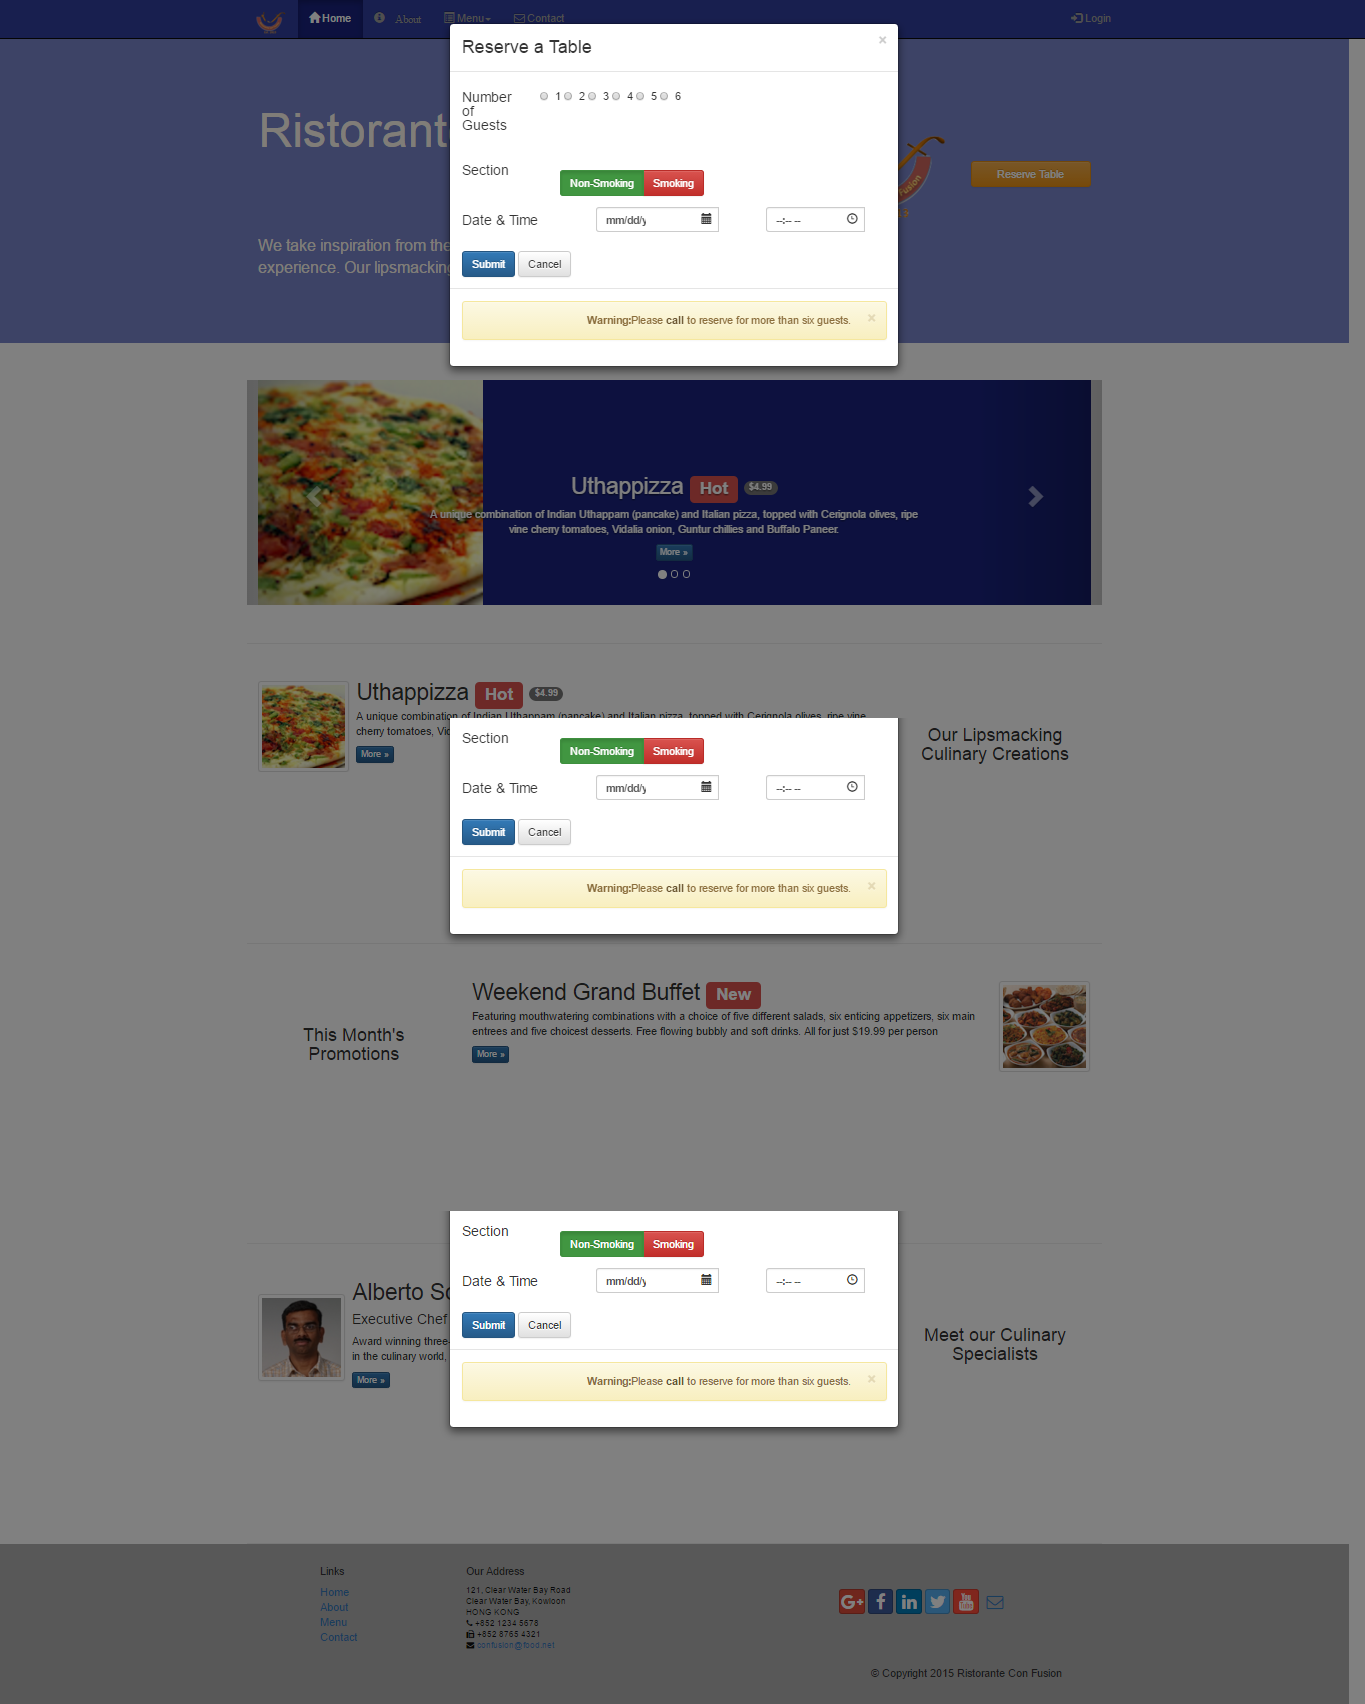
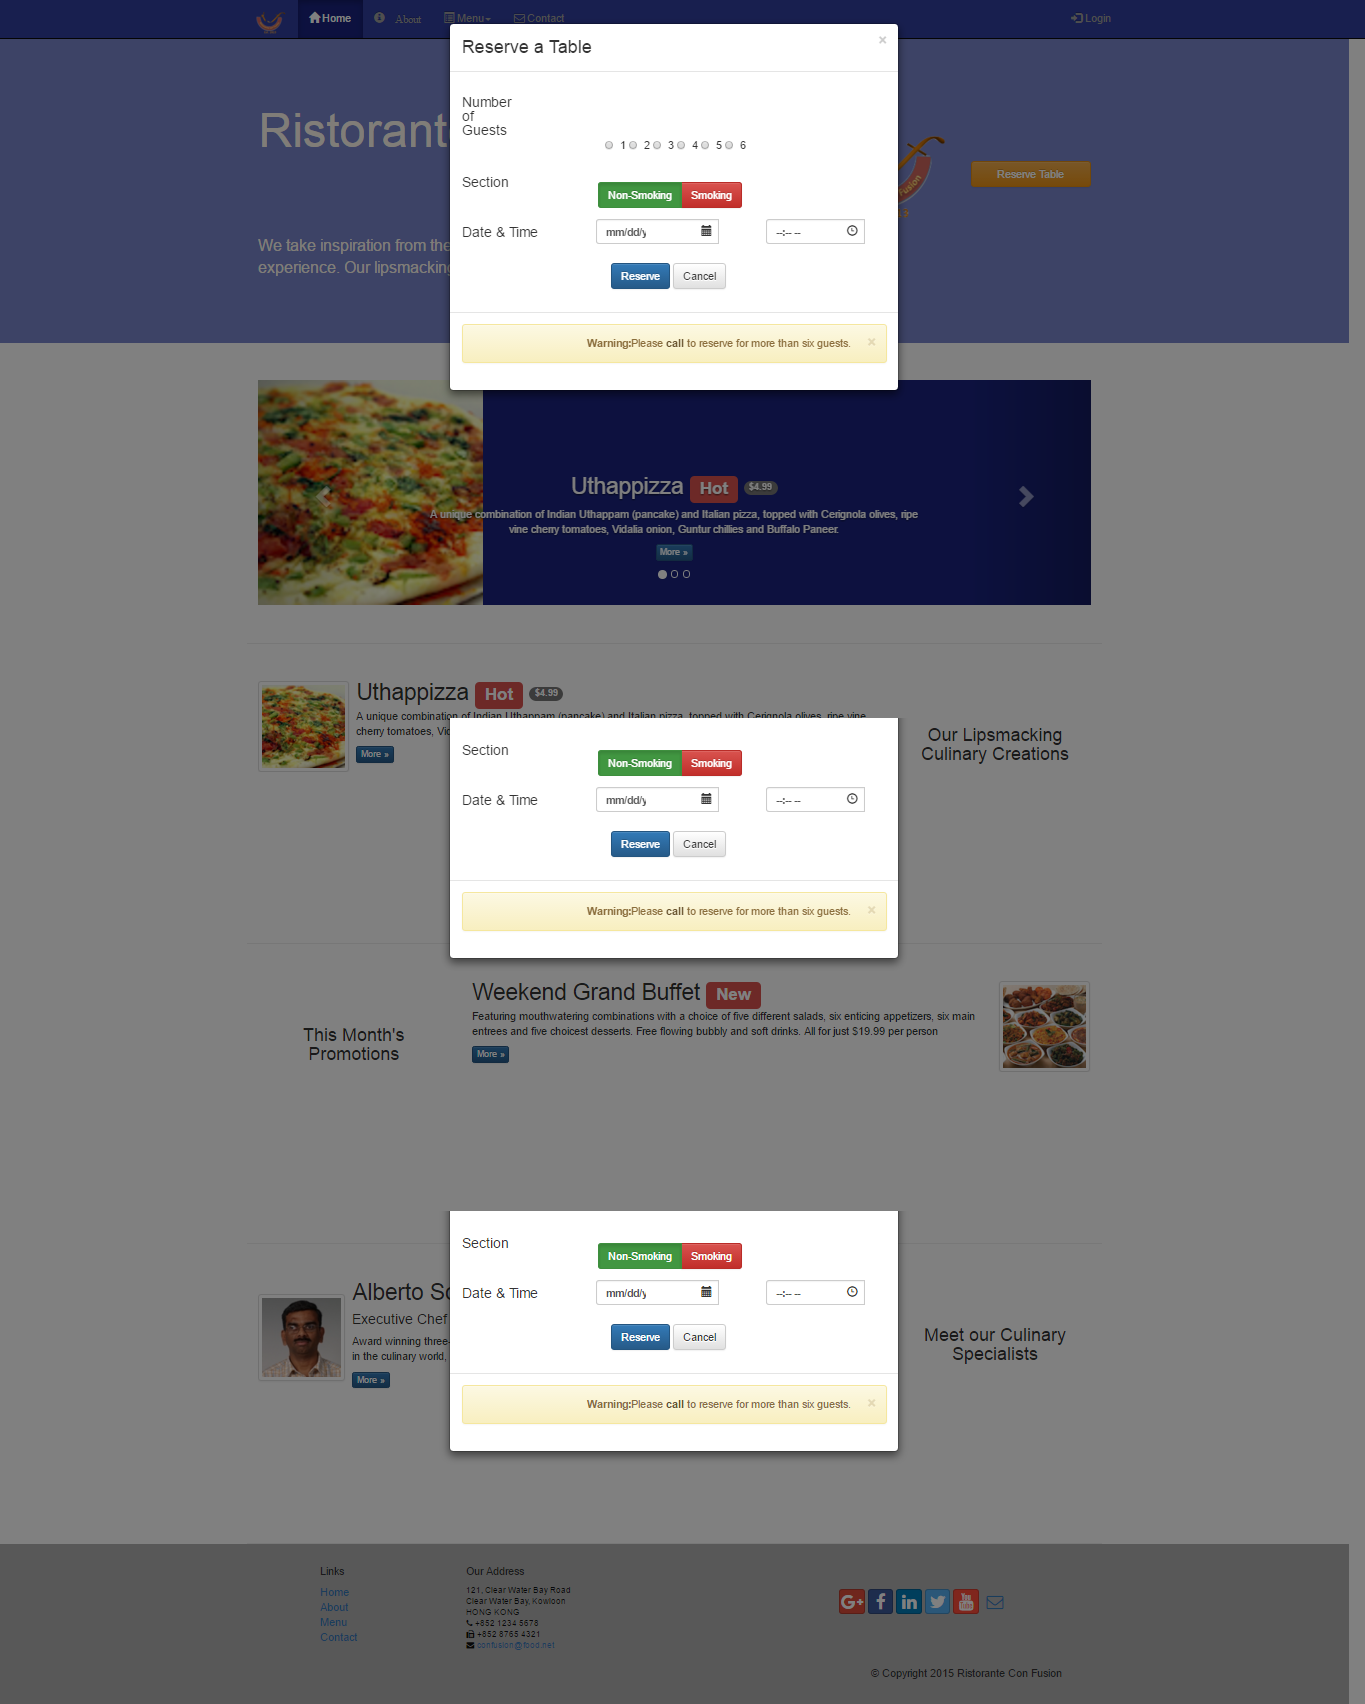
last modifications for 3rd assignment

diff --git a/index.html b/index.html
@@ -98,6 +98,95 @@
         </div>
     </div>  <!-- end of login Modal -->
 
+    <!-- @boo: reserve modal . 3rd assignment -->
+    <div class="modal fade" id="reserveModal" role="dialog">
+            <div class="modal-dialog">
+            <!-- Modal content -->
+                <div class="modal-content">
+                    <div class="modal-header">
+                        <button type="button" class="close" data-dismiss="modal">&times;</button>
+                        <h3 class="modal-title">Reserve a Table</h3> 
+                    </div>
+                    <div class="modal-body">
+                        <form class="form-horizontal" role="form">
+                            <div class="form-group">
+                                <label class="control-label"><h4 class="col-sm-2">Number of Guests</h4></label>
+                                <div class="radio radio-inline">
+                                    <label for="optionsRadios1">
+                                        <input type="radio" name="optionsRadios" id="optionsRadios1" value="option1" checked>1
+                                    </label>
+                                    <label for="optionsRadios2">
+                                        <input type="radio" name="optionsRadios" id="optionsRadios2" value="option2">2
+                                    </label>
+                                    <label for="optionsRadios3">
+                                        <input type="radio" name="optionsRadios" id="optionsRadios3" value="option3">3
+                                    </label>
+                                    <label for="optionsRadios4">
+                                        <input type="radio" name="optionsRadios" id="optionsRadios4" value="option4">4
+                                    </label>
+                                    <label for="optionsRadios5">
+                                        <input type="radio" name="optionsRadios" id="optionsRadios5" value="option5">5
+                                    </label>
+                                    <label for="optionsRadios6">
+                                        <input type="radio" name="optionsRadios" id="optionsRadios6" value="option6">6
+                                    </label>
+                                </div>
+                            </div>
+
+                            <!-- @boo: assignments 3 task 4 -->
+                            <div class="form-group">
+                                <label for="section" class="control-label"><h4 class="col-sm-2">Section</h4></label>
+                                <div class="btn-group col-sm-offset-2" data-toggle="buttons">
+                                    <label class="btn btn-success active">
+                                        <input type="radio" name="optionsRadios" id="optionsNonSmoking" value="optionsNonSmoking" autocomplete="off" checked> Non-Smoking
+                                    </label>
+                                    <label class="btn btn-danger">
+                                        <input type="radio" name="optionsRadios" id="optionsSmoking" value="optionsSmoking" autocomplete="off">Smoking
+                                    </label>
+                                </div>
+                            </div>
+
+                            <div class="form-group has-feedback input-group">
+                                <h4 class="col-sm-3">Date &amp; Time</h4>
+                                <div class="col-sm-9">
+                                    <div class="col-sm-12">
+                                        <div class="col-sm-6 datepicker date has-feedback">
+                                            <label for="date">
+                                                <input class="form-control date-picker date" type="date" name="date" id="date" min="2016-04-18" placeholder="Date">
+                                                <span class="glyphicon glyphicon-calendar form-control-feedback"></span>
+                                            </label>
+                                        </div> 
+                                        <div class="col-sm-offset-1 col-sm-5 time has-feedback">
+                                            <label for="time">
+                                                <input class="form-control time" type="time" name="time" id="time" placeholder="Time">
+                                                <span class="glyphicon glyphicon-time form-control-feedback"></span>
+                                            </label>
+                                        </div>
+                                    </div>
+                                </div>
+                            </div>
+                            <div class="form-group">
+                                <div class="col-sm-offset-4 col-sm-8">
+                                    <button type="button" class="btn btn-primary">Reserve</button>
+                                    <button type="button" class="btn btn-default" aria-label="close" data-dismiss="modal">Cancel</button>    
+                                </div>
+                            </div>
+                        </form>
+                    </div><!-- end of modal body -->
+                    <!--Alert -->
+                    <!-- @boo 3Assignment task 2: Remove alert. -->
+                    <div class="modal-footer">
+                        <div class="alert alert-warning alert-dismissible" role="alert">
+                            <button type="button" class="close" data-dismiss="alert" aria-label="Close">
+                                <span aria-hidden="true">&times;</span>
+                            </button>
+                            <strong>Warning:</strong>Please <a href="tel:+85212345678" class="alert-link">call</a> to reserve for more than six guests.                    
+                        </div>
+                    </div> <!-- end of modal footer -->
+                </div> <!-- end of modal dialog -->
+            </div> <!-- end of modal content-->
+        </div> <!-- end of modal form + alert --> 
+
     <header class="jumbotron">
 
         <!-- Main component for a primary marketing message or call to action -->
@@ -121,7 +210,7 @@
                 </div>
             </div>
             <!-- @boo 3Assignment task 2: Remove form. remove row content. turn it into a modal. -->
-        
+            
         </div>
     </header>
 
@@ -130,14 +219,13 @@
         <div class="row row-content">
             <div class="col-xs-12">
             <!-- Indicators -->
-            <div id="mycarousel" class="carousel slide" data-ride="carousel">
-            <ol class="carousel-indicators">
-                <li data-target="#mycarousel" data-slide-to="0" class="active"></li>
-                <li data-target="#mycarousel" data-slide-to="1"></li>
-                <li data-target="#mycarousel" data-slide-to="2"></li>
-            </ol>
-                
-                    <!--wrapper for slides-->
+                <div id="mycarousel" class="carousel slide" data-ride="carousel">
+                    <ol class="carousel-indicators">
+                        <li data-target="#mycarousel" data-slide-to="0" class="active"></li>
+                        <li data-target="#mycarousel" data-slide-to="1"></li>
+                        <li data-target="#mycarousel" data-slide-to="2"></li>
+                    </ol>
+                <!--wrapper for slides-->
                     <div class="carousel-inner" role="listbox">
                         <div class="item active">
                             <img class="img-responsive" src="img/uthappizza.png" alt="Uthappizza">
@@ -166,18 +254,18 @@
                             </div>
                         </div>
                     </div>
+                
+                    <!-- Controls of the carousel -->
+                    <a class="left carousel-control" href="#mycarousel" role="button" data-slide="prev">
+                        <span class="glyphicon glyphicon-chevron-left" aria-hidden="true"></span>
+                        <span class="sr-only">Previous</span>
+                    </a>
+                    <a class="right carousel-control" href="#mycarousel" role="button" data-slide="next">
+                        <span class="glyphicon glyphicon-chevron-right" aria-hidden="true"></span>
+                        <span class="sr-only">Next</span>
+                    </a>
                 </div>
-                <!-- Controls of the carousel -->
-                <a class="left carousel-control" href="#mycarousel" role="button" data-slide="prev">
-                    <span class="glyphicon glyphicon-chevron-left" aria-hidden="true"></span>
-                    <span class="sr-only">Previous</span>
-                </a>
-                <a class="right carousel-control" href="#mycarousel" role="button" data-slide="next">
-                    <span class="glyphicon glyphicon-chevron-right" aria-hidden="true"></span>
-                    <span class="sr-only">Next</span>
-                </a>
             </div>
-            
         </div> <!-- end of carousel -->
 
         <div class="row row-content">
@@ -295,108 +383,18 @@
         </div>
     </footer>
 
-    <div class="modal fade" id="reserveModal" role="dialog">
-            <div class="modal-dialog">
-            <!-- Modal content -->
-                <div class="modal-content">
-                    <div class="modal-header">
-                        <button type="button" class="close" data-dismiss="modal">&times;</button>
-                        <h3 class="modal-title">Reserve a Table</h3> 
-                    </div>
-                    <div class="modal-body">
-                        <form class="form-horizontal" role="form">
-                            <div class="form-group">
-                                <h4 class="col-sm-2">Number of Guests</h4>
-                                <div class="radio radio-inline">
-                                    <label for="optionsRadios1">
-                                        <input type="radio" name="optionsRadios" id="optionsRadios1" value="option1" checked>1
-                                    </label>
-                                    <label for="optionsRadios2">
-                                        <input type="radio" name="optionsRadios" id="optionsRadios2" value="option2">2
-                                    </label>
-                                    <label for="optionsRadios3">
-                                        <input type="radio" name="optionsRadios" id="optionsRadios3" value="option3">3
-                                    </label>
-                                    <label for="optionsRadios4">
-                                        <input type="radio" name="optionsRadios" id="optionsRadios4" value="option4">4
-                                    </label>
-                                    <label for="optionsRadios5">
-                                        <input type="radio" name="optionsRadios" id="optionsRadios5" value="option5">5
-                                    </label>
-                                    <label for="optionsRadios6">
-                                        <input type="radio" name="optionsRadios" id="optionsRadios6" value="option6">6
-                                    </label>
-                                </div>
-                            </div>
-
-                            <!-- @boo: assignments 3 task 4 -->
-                            <div class="form-group">
-                                <label for="section" class="control-label"><h4 class="col-sm-2">Section</h4></label>
-                                <div class="btn-group col-sm-offset-1 col-sm-" data-toggle="buttons">
-                                    <label class="btn btn-success active">
-                                        <input type="radio" name="optionsRadios" id="optionsNonSmoking" value="optionsNonSmoking" checked> Non-Smoking
-                                    </label>
-                                    <label class="btn btn-danger">
-                                        <input type="radio" name="optionsRadios" id="optionsSmoking" value="optionsSmoking">Smoking
-                                    </label>
-                                </div>
-                            </div>
-
-                            <div class="form-group has-feedback input-group">
-                                <h4 class="col-sm-3">Date &amp; Time</h4>
-                                <div class="col-sm-9">
-                                    <div class="col-sm-12">
-                                        <div class="col-sm-6 datepicker date has-feedback">
-                                            <label for="date">
-                                                <input class="form-control date-picker date" type="date" name="date" id="date" min="2016-04-18" placeholder="Date">
-                                                <span class="glyphicon glyphicon-calendar form-control-feedback"></span>
-                                            </label>
-                                        </div> 
-                                        <div class="col-sm-offset-1 col-sm-5 time has-feedback">
-                                            <label for="time">
-                                                <input class="form-control time" type="time" name="time" id="time" placeholder="Time">
-                                                <span class="glyphicon glyphicon-time form-control-feedback"></span>
-                                            </label>
-                                        </div>
-                                    </div>
-                                </div>
-                            </div>
-                            <div>
-                                <button type="button" class="btn btn-primary">Submit</button>
-                                <button type="button" class="btn btn-default" aria-label="close" data-dismiss="modal">Cancel</button>    
-                            </div>
-                        </form>
-                    </div><!-- end of modal body -->
-                    <!--<div class="col-xs-12 col-sm-3">
-                        <p style="padding:20px;"></p>
-                    </div>--> 
-                    <!--Alert -->
-                    <!-- @boo 3Assignment task 2: Remove alert. -->
-                    <div class="modal-footer">
-                        <div class="alert alert-warning alert-dismissible" role="alert">
-                            <button type="button" class="close" data-dismiss="alert" aria-label="Close">
-                                <span aria-hidden="true">&times;</span>
-                            </button>
-                            <strong>Warning:</strong>Please <a href="tel:+85212345678" class="alert-link">call</a> to reserve for more than six guests.                    
-                        </div>
-                    </div> <!-- end of modal footer -->
-                </div> <!-- end of modal dialog -->
-            </div> <!-- end of modal content-->
-           
-                
-            
-            
-        </div> <!-- end of modal form + alert --> 
+    
     <!-- jQuery (necessary for Bootstrap's JavaScript plugins) -->
     <script src="https://ajax.googleapis.com/ajax/libs/jquery/1.11.3/jquery.min.js"></script>
     <!-- Include all compiled plugins (below), or include individual files as needed -->
     <script src="js/bootstrap.min.js"></script>
     <!-- my script -->
+    <!-- @boo: removed. 3rd assignment.
     <script type="text/javascript">
         $(document).ready(function(){
             $('[data-toggle="tooltip"]').tooltip();
         });
-    </script>
+    </script>-->
 </body>
 
 </html>
